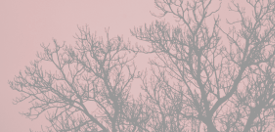
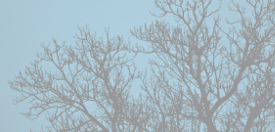
get into walmart

diff --git a/raw/End Millenium.html b/raw/End Millenium.html
@@ -73,6 +73,11 @@
     -webkit-animation: blink 1s steps(10, start) infinite;;
   } 
 
+  tw-icon {
+    opacity: .3;
+    color: #6EB7D4;
+  }
+
   tw-passage:hover h1{
     color: #00FFFF;
     text-shadow: 5px 7px rgba(44, 78, 86, 0.63);
@@ -113,6 +118,12 @@
     background-size: cover, 100px 100px;
   }
 
+  .text-section.electricsky:hover{
+    background-image:url(images/electricsky.png), url(images/static.gif);
+    background-repeat: no-repeat, repeat;
+    background-size: cover, 100px 100px;
+  }
+
   .text-section.headlights:hover{
     background-image:url(images/headlights.png), url(images/static.gif);
     background-repeat: no-repeat, repeat;
@@ -120,13 +131,19 @@
   }
 
   .text-section.headlights-off:hover{
-    background-image:url(images/truckdash.png), url(images/static.gif);
+    background-image:url(images/vacantsuburb.png), url(images/static.gif);
     background-repeat: no-repeat, repeat;
     background-size: cover, 100px 100px;
   }
 
   .text-section.met-shep:hover{
     background-image:url(images/cellphone.png), url(images/static.gif);
+    background-repeat: no-repeat, repeat;
+    background-size: cover, 100px 100px;
+  }
+
+  .text-section.shepheadlamp:hover{
+    background-image:url(images/shepheadlamp.png), url(images/static.gif);
     background-repeat: no-repeat, repeat;
     background-size: cover, 100px 100px;
   }
@@ -148,11 +165,25 @@
     background-repeat: no-repeat, repeat;
     background-size: cover, 100px 100px;
   }
+  
+  .text-section.takeknife{
+    padding:70px 20px;
+  }
+
+  .text-section.takeknife:hover{
+    background-image:url(images/takeknife.png), url(images/static.gif);
+    background-repeat: no-repeat, repeat;
+    background-size: cover, 100px 100px;
+  }
 
   .text-section.twistedtrees:hover{
     background-image:url(images/twistedbranches.png), url(images/static.gif);
     background-repeat: no-repeat, repeat;
     background-size: cover, 100px 100px;
+  }
+
+  .text-section.walmart-question{
+    padding: 50px 20px;
   }
 
   .text-section.walmart-question:hover{
@@ -211,7 +242,9 @@
 
 
 
+
 </style><script role="script" id="twine-user-script" type="text/twine-javascript">
+
 
 
 
@@ -234,21 +267,20 @@ Angela passes an exit.
 (if: (passage:)&#x27;s tags&#x27;s length &gt; 0)[
 (print: &quot;&lt;script&gt;$(&#x27;html&#x27;).addClass(&#x27;&quot; + (passage:)&#x27;s tags.join(&#x27; &#x27;) + &quot;&#x27;\)&lt;/script&gt;&quot;)
 ]
-}</tw-passagedata><tw-passagedata pid="12" name="The highway" tags="earlyeve" position="540,514">&lt;div class=&quot;text-section bottom-line&quot;&gt;You dream of casino billboards as they come and go, and of exit signs. When you open your eyes, it’s much like the dream. The sky wheels above Mississippi. [[The land is electric|Staring out at Mississippi]].&lt;/div&gt;&lt;div class=&quot;text-section headlights&quot;&gt;A car passes like some homeward spaceship that lost a war. It’s going east. You&#x27;re going west. The low sun breaks apart in the sky.&lt;/div&gt;</tw-passagedata><tw-passagedata pid="13" name="Shep laughs on his haunches" tags="gasstation" position="409,1053">&lt;div class=&quot;text-section walmart-question&quot;&gt;Shep: “What I’m asking is, if I went and got a couple things from Wal-Mart, would you two [[mind|Mind going to Wal-Mart?]]?”
+}</tw-passagedata><tw-passagedata pid="12" name="The highway" tags="earlyeve" position="540,514">&lt;div class=&quot;text-section bottom-line electricsky&quot;&gt;You dream of casino billboards as they come and go, and of exit signs. When you open your eyes, it’s much like the dream. The sky wheels above Mississippi. [[The land is electric|Staring out at Mississippi]].&lt;/div&gt;&lt;div class=&quot;text-section headlights&quot;&gt;A car passes like some homeward spaceship that lost a war. It’s going east. You&#x27;re going west. The low sun breaks apart in the sky.&lt;/div&gt;</tw-passagedata><tw-passagedata pid="13" name="Shep laughs on his haunches" tags="gasstation" position="409,1053">&lt;div class=&quot;text-section walmart-question&quot;&gt;Shep: “What I’m asking is, if I went and got a couple things from Wal-Mart, would you two [[mind|Mind going to Wal-Mart?]]?”
 &lt;/div&gt;</tw-passagedata><tw-passagedata pid="14" name="Mind going to Wal-Mart?" tags="gasstation" position="413,1178">&lt;div class=&quot;text-section choice&quot;&gt;&gt; [[&quot;Nah, let&#x27;s go.&quot;|Let&#x27;s go to Wal-Mart]]
 &gt; [[&quot;We&#x27;d have to break in...&quot;|We&#x27;d have to break in to Wal-Mart]]
-&gt; [[&quot;Yeah, we&#x27;d mind.&quot;|We&#x27;d mind going to Wal-Mart]]&lt;/div&gt;</tw-passagedata><tw-passagedata pid="15" name="Let&#x27;s go to Wal-Mart" tags="gasstation" position="289,1332">&lt;div class=&quot;text-section&quot;&gt;Angela smiles, and the three of you [[climb into the truck|Get in the truck for Wal-Mart]].&lt;/div&gt;</tw-passagedata><tw-passagedata pid="16" name="We&#x27;d have to break in to Wal-Mart" tags="gasstation" position="421,1337">&lt;div class=&quot;text-section bottom-line&quot;&gt;Shep shakes his head. &quot;You aint gotta do shit. Wait in the truck for all I care.&quot;&lt;/div&gt;&lt;div class=&quot;text-section&quot;&gt;Angela laughs. Silence follows, and the three of you [[climb into the truck|Get in the truck for Wal-Mart]].&lt;/div&gt;</tw-passagedata><tw-passagedata pid="17" name="We&#x27;d mind going to Wal-Mart" tags="gasstation" position="563,1338">&lt;div class=&quot;text-section&quot;&gt;Shep grimaces for a moment. Then he smiles. &quot;Well then you get to wait outside. Let&#x27;s get moving.&quot; Without another word exchanged, the three of you [[climb into the truck|Get in the truck for Wal-Mart]].&lt;/div&gt;</tw-passagedata><tw-passagedata pid="18" name="Get in the truck for Wal-Mart" tags="highwaynight" position="419,1473">&lt;div class=&quot;text-section bottom-line&quot;&gt;You sit in the narrow backseat for forty miles before Shep exits the highway into a [[wholly vacant suburb|Vacant suburb]].&lt;/div&gt;&lt;div class=&quot;text-section radio&quot;&gt;The emergency service station plays on the radio. The man at the microphone speaks extemporaneously about things he&#x27;s heard, what&#x27;s flooded and what&#x27;s not. None of it sounds good.&lt;/div&gt;</tw-passagedata><tw-passagedata pid="19" name="Vacant suburb" tags="highwaynight" position="419,1610">&lt;div class=&quot;text-section headlights-off&quot;&gt;Shep seems to know just where he&#x27;s going. He travels north for several minutes through a lane of low-rise stucco malls. In one parking lot are many military vehicles but nowhere are there people. Debris covers much of the road. He makes a left, cuts the headlights and drives along slowly by little suggestions of the moon. He circles to the back of the Wal-Mart and parks his truck in the [[driveway|Complex driveway]] of a small residential complex across the street.&lt;/div&gt;</tw-passagedata><tw-passagedata pid="20" name="Complex driveway" tags="moonlight" position="595,1610">&lt;div class=&quot;text-section bottom-line&quot;&gt;As your eyes adjust to the dim moonlight, Shep gets out and begins filling the tank with a gas canister from the truck bed. Without looking up, he asks that you and Angela move his tools from his job box into the cab of the truck.&lt;/div&gt;
-&lt;div class=&quot;text-section choice&quot;&gt;&gt;[[You ask why|Why move tools]].
-&gt;[[You do as he says|Move tools]].&lt;/div&gt;</tw-passagedata><tw-passagedata pid="21" name="Why move tools" tags="moonlight" position="517,1755">&lt;div class=&quot;text-section&quot;&gt;&quot;Cus that shit&#x27;s expensive,&quot; he replies. You nod and begin [[moving the tools|Move tools]].&lt;/div&gt;</tw-passagedata><tw-passagedata pid="22" name="Move tools" tags="moonlight" position="660,1756">&lt;div class=&quot;text-section&quot;&gt;Yall move a drill, a screw gun, a table saw, a drop cloth, a [[tool bag|Shep&#x27;s toolbag]], and two little plastic yellow cases. On the floor behind the driver&#x27;s seat, you notice a small [[pocket knife|Take the knife?]]. Once finished, you both [[look to Shep|Shep gets satchel]].&lt;/div&gt;</tw-passagedata><tw-passagedata pid="23" name="Shep gets satchel" tags="moonlight" position="659,2011">&lt;div class=&quot;text-section&quot;&gt;Shep carries over a satchel and begins filling it with various tools from the back seat.(if: $knife is true)[ He looks up at you for a brief moment with a chilling expression.] &quot;I&#x27;ma make my way in there. Follow along [[if yall want|Choose where to go]]. Don&#x27;t matter to me.&quot;&lt;/div&gt;</tw-passagedata><tw-passagedata pid="24" name="Shep&#x27;s toolbag" tags="" position="805,1761">&lt;div class=&quot;text-section&quot;&gt;The toolbag is greasy, smells vaguely like trash, and leaves you with the horrid sense that something mammalian is hiding inside it. You set it down quickly and [[return to the truckbed|Move tools]].&lt;/div&gt;</tw-passagedata><tw-passagedata pid="25" name="Take the knife?" tags="moonlight" position="515,1880">&lt;div class=&quot;text-section choice&quot;&gt;&gt;[[Take the knife|Take knife]].
-&gt;[[Leave the knife where it&#x27;s sitting.|Move tools]]&lt;/div&gt;</tw-passagedata><tw-passagedata pid="26" name="Take knife" tags="moonlight" position="513,2009">&lt;div class=&quot;text-section&quot;&gt;You glance over your shoulder towards Shep, who&#x27;s busy with something behind the truck, and then slip the knife into your back pocket. Angela watches the gesture and says nothing.(set: $knife to true) Shep wanders to the front of the truck and the two of you [[turn to face him|Shep gets satchel]].&lt;/div&gt;</tw-passagedata><tw-passagedata pid="27" name="Wait with Angela" tags="moonlight" position="722,1886">&lt;div class=&quot;text-section bottom-line&quot;&gt;Shep knods and retreats towards the back of the store.&lt;/div&gt;&lt;div class=&quot;text-section choice&quot;&gt;To Angela:
+&gt; [[&quot;Yeah, we&#x27;d mind.&quot;|We&#x27;d mind going to Wal-Mart]]&lt;/div&gt;</tw-passagedata><tw-passagedata pid="15" name="Let&#x27;s go to Wal-Mart" tags="gasstation" position="289,1332">&lt;div class=&quot;text-section&quot;&gt;Angela smiles, and the three of you [[climb into the truck|Get in the truck for Wal-Mart]].&lt;/div&gt;</tw-passagedata><tw-passagedata pid="16" name="We&#x27;d have to break in to Wal-Mart" tags="gasstation" position="421,1337">&lt;div class=&quot;text-section bottom-line&quot;&gt;Shep shakes his head. &quot;You aint gotta do shit. Wait in the truck for all I care.&quot;&lt;/div&gt;&lt;div class=&quot;text-section&quot;&gt;Angela laughs. Silence follows, and the three of you [[climb into the truck|Get in the truck for Wal-Mart]].&lt;/div&gt;</tw-passagedata><tw-passagedata pid="17" name="We&#x27;d mind going to Wal-Mart" tags="gasstation" position="563,1338">&lt;div class=&quot;text-section&quot;&gt;Shep grimaces for a moment. Then he smiles. &quot;Well then you get to wait outside. Let&#x27;s get moving.&quot; Without another word exchanged, the three of you [[climb into the truck|Get in the truck for Wal-Mart]].&lt;/div&gt;</tw-passagedata><tw-passagedata pid="18" name="Get in the truck for Wal-Mart" tags="highwaynight" position="419,1473">&lt;div class=&quot;text-section bottom-line&quot;&gt;You sit in the narrow backseat for forty miles before Shep exits the highway into a [[wholly vacant suburb|Vacant suburb]].&lt;/div&gt;&lt;div class=&quot;text-section radio&quot;&gt;The emergency service station plays on the radio. The man at the microphone speaks extemporaneously about things he&#x27;s heard, what&#x27;s flooded and what&#x27;s not. None of it sounds good.&lt;/div&gt;</tw-passagedata><tw-passagedata pid="19" name="Vacant suburb" tags="highwaynight" position="419,1610">&lt;div class=&quot;text-section headlights-off&quot;&gt;Shep seems to know just where he&#x27;s going. He travels north for several minutes through a lane of low-rise stucco malls. In one parking lot are many military vehicles but nowhere are there people. Debris covers much of the road. He makes a left, cuts the headlights and drives along slowly by little suggestions of the moon. He circles to the back of the Wal-Mart and parks his truck in the [[driveway|Complex driveway]] of a small residential complex across the street.&lt;/div&gt;</tw-passagedata><tw-passagedata pid="20" name="Complex driveway" tags="moonlight" position="595,1610">&lt;div class=&quot;text-section bottom-line&quot;&gt;As your eyes adjust to the dim moonlight, Shep gets out and begins filling the tank with a gas canister from the truck bed. Without looking up, he asks that you and Angela move his tools from his job box into the cab of the truck.&lt;/div&gt;&lt;div class=&quot;text-section choice&quot;&gt;&gt;[[You ask why|Why move tools]].
+&gt;[[You do as he says|Move tools]].&lt;/div&gt;</tw-passagedata><tw-passagedata pid="21" name="Why move tools" tags="moonlight" position="517,1755">&lt;div class=&quot;text-section&quot;&gt;&quot;Lock don&#x27;t work on the box,&quot; he replies. You nod and begin [[moving the tools|Move tools]].&lt;/div&gt;</tw-passagedata><tw-passagedata pid="22" name="Move tools" tags="moonlight" position="660,1756">&lt;div class=&quot;text-section&quot;&gt;Yall move a drill, a screw gun, a table saw, a drop cloth, a [[tool bag|Shep&#x27;s toolbag]], and two little plastic yellow cases. On the floor behind the driver&#x27;s seat, you notice a small [[pocket knife|Take the knife?]]. Once finished, you both [[look to Shep|Shep gets satchel]].&lt;/div&gt;</tw-passagedata><tw-passagedata pid="23" name="Shep gets satchel" tags="moonlight" position="659,2011">&lt;div class=&quot;text-section&quot;&gt;Shep carries over a satchel and begins filling it with various tools from the back seat.(if: $knife is true)[ He looks up at you for a brief moment with a chilling expression.] &quot;I&#x27;ma make my way in there. Follow along [[if yall want|Wait with Angela]]. Don&#x27;t matter to me.&quot;&lt;/div&gt;</tw-passagedata><tw-passagedata pid="24" name="Shep&#x27;s toolbag" tags="" position="805,1761">&lt;div class=&quot;text-section&quot;&gt;The toolbag is greasy, smells vaguely like trash, and leaves you with the horrid sense that something mammalian is hiding inside it. You set it down quickly and [[return to the truckbed|Move tools]].&lt;/div&gt;</tw-passagedata><tw-passagedata pid="25" name="Take the knife?" tags="moonlight" position="515,1880">&lt;div class=&quot;text-section choice&quot;&gt;&gt;[[Take the knife|Take knife]].
+&gt;[[Leave the knife where it&#x27;s sitting.|Move tools]]&lt;/div&gt;</tw-passagedata><tw-passagedata pid="26" name="Take knife" tags="moonlight" position="513,2009">&lt;div class=&quot;text-section takeknife&quot;&gt;You glance over your shoulder towards Shep, who&#x27;s busy with something behind the truck. You check the blade on the knife, and then slip it into your back pocket. Angela watches the gesture and says nothing.(set: $knife to true) Shep wanders to the front of the truck and the two of you [[turn to face him|Shep gets satchel]].&lt;/div&gt;</tw-passagedata><tw-passagedata pid="27" name="Wait with Angela" tags="moonlight" position="539,2146">&lt;div class=&quot;text-section bottom-line&quot;&gt;Shep knods and retreats towards the back of the store.&lt;/div&gt;&lt;div class=&quot;text-section choice&quot;&gt;To Angela:
 &gt; (link: &quot;How do you feel about this guy?&quot;)[(set: $likeShep to &quot;unsure&quot;)(goto: &quot;How does Angela feel about Shep&quot;)]
 &gt; (link: &quot;I like this guy.&quot;)[(set: $likeShep to &quot;like&quot;)(goto: &quot;How does Angela feel about Shep&quot;)]
-&gt; (link: &quot;I don&#x27;t trust this guy...&quot;)[(set: $likeShep to &quot;dislike&quot;)(goto: &quot;How does Angela feel about Shep&quot;)]</tw-passagedata><tw-passagedata pid="28" name="How does Angela feel about Shep" tags="moonlight" position="664,2145">&lt;div class=&quot;text-section&quot;&gt;&quot;(if: $likeShep is &quot;dislike&quot;)[Well ]I like him(if: $likeShep is &quot;like&quot;)[ too].(if: $knife is true)[ Though he may not like us too much if he sees that his knife is missing.] I&#x27;m down to wait out here or head in and get some stuff. It&#x27;s [[up to you|Choose where to go]].&quot;&lt;/div&gt;</tw-passagedata><tw-passagedata pid="29" name="Choose where to go" tags="moonlight" position="847.0002,1966">&lt;div class=&quot;text-section choice&quot;&gt;&gt; [[Head toward the back of the store.|Behind Wal-mart]]
-&gt; [[Continue waiting.|Continue waiting with Angela]]&lt;/div&gt;</tw-passagedata><tw-passagedata pid="30" name="Behind Wal-mart" tags="moonlight" position="832,2157">&lt;div class=&quot;text-section bottom-line&quot;&gt;You can make out Shep&#x27;s headlamp as you walk towards Wal-Mart. As you get closer, you see that he&#x27;s removing screws from a 2x4 that hangs above a large piece of plywood. Angela hurries ahead of you and helps him bring down the plywood. By the time you arrive, they&#x27;re removing the stops from a large metal door frame.&lt;/div&gt;&lt;div class=&quot;text-section choice&quot;&gt;&gt; [[&quot;How can I help?&quot;|Help get into Wal-mart]]
+&gt; (link: &quot;I don&#x27;t trust this guy...&quot;)[(set: $likeShep to &quot;dislike&quot;)(goto: &quot;How does Angela feel about Shep&quot;)]</tw-passagedata><tw-passagedata pid="28" name="How does Angela feel about Shep" tags="moonlight" position="664.0001,2145">&lt;div class=&quot;text-section&quot;&gt;&quot;(if: $likeShep is &quot;dislike&quot;)[Well ]I like him(if: $likeShep is &quot;like&quot;)[ too].(if: $knife is true)[ Though he may not like us too much if he sees that his knife is missing.] I&#x27;m down to wait out here or head in and get some stuff. It&#x27;s [[up to you|Choose where to go]].&quot;&lt;/div&gt;</tw-passagedata><tw-passagedata pid="29" name="Choose where to go" tags="moonlight" position="847,1966">&lt;div class=&quot;text-section choice&quot;&gt;&gt; [[Head toward the back of the store.|Behind Wal-mart]]
+&gt; [[Continue waiting.|Continue waiting with Angela]]&lt;/div&gt;</tw-passagedata><tw-passagedata pid="30" name="Behind Wal-mart" tags="moonlight" position="832,2157">&lt;div class=&quot;text-section bottom-line shepheadlamp&quot;&gt;You can make out Shep&#x27;s headlamp as you walk towards Wal-Mart. As you get closer, you see that he&#x27;s removing screws from a 2x4 that hangs above a large piece of plywood. Angela hurries ahead of you and helps him bring down the plywood. By the time you arrive, they&#x27;re removing the stops from a metal door frame.&lt;/div&gt;&lt;div class=&quot;text-section choice&quot;&gt;&gt; [[&quot;How can I help?&quot;|Help get into Wal-mart]]
 &gt; [[Continue to watch|Get into Wal-Mart]].&lt;/div&gt;</tw-passagedata><tw-passagedata pid="31" name="Continue waiting with Angela" tags="moonlight" position="996,1961">&lt;div class=&quot;text-section bottom-line&quot;&gt;You&#x27;ve never seen this many stars along the Gulf Coast before. You watch what you believe to be a satellite traveling in an arc above the shadowed suburb.&lt;/div&gt;&lt;div class=&quot;text-section choice&quot;&gt;To Angela:
 &gt; [[When do you think we&#x27;ll get to Norco?|When will we get to Norco]]
 &gt; [[I&#x27;m getting tired.|Getting tired.]]
-&gt; [[I hope the lights never come back on.|Hope the lights never come back on.]]&lt;/div&gt;</tw-passagedata><tw-passagedata pid="32" name="When will we get to Norco" tags="moonlight" position="987,2160">&lt;div class=&quot;text-section&quot;&gt;&quot;Maybe there&#x27;s no more Norco. Maybe never?&quot; You nod and [[lean against the truck|Choose where to go]].&lt;/div&gt;</tw-passagedata><tw-passagedata pid="33" name="Getting tired." tags="moonlight" position="1128,2036">&lt;div class=&quot;text-section&quot;&gt;&quot;And it&#x27;s your turn to drive. Sucks for you.&quot; You roll your eyes and [[lean against the truck|Choose where to go]].&lt;/div&gt;</tw-passagedata><tw-passagedata pid="34" name="Hope the lights never come back on." tags="moonlight" position="995,1816">&lt;div class=&quot;text-section&quot;&gt;&quot;I&#x27;ll remember you said that when we get home and there&#x27;s no air conditioning.&quot; You bite your tongue and [[lean against the truck|Choose where to go]].&lt;/div&gt;</tw-passagedata><tw-passagedata pid="35" name="Help get into Wal-mart" tags="moonlight" position="832,2307">&lt;div class=&quot;text-section&quot;&gt;Shep gestures to a vaccuum cup sitting on the ground near your feet. &quot;[[Hand me that cup|Get into Wal-Mart]](if: $knife is not true)[, if you would].&quot;&lt;/div&gt;</tw-passagedata><tw-passagedata pid="36" name="Get into Wal-Mart" tags="moonlight" position="982,2307">&lt;div class=&quot;text-section&quot; id=&quot;end-demo&quot;&gt;End demo.&lt;/div&gt;</tw-passagedata></tw-storydata>
+&gt; [[I hope the lights never come back on.|Hope the lights never come back on.]]&lt;/div&gt;</tw-passagedata><tw-passagedata pid="32" name="When will we get to Norco" tags="moonlight" position="987,2160">&lt;div class=&quot;text-section&quot;&gt;&quot;Maybe there&#x27;s no more Norco. Maybe never?&quot; You nod and [[lean against the truck|Choose where to go]].&lt;/div&gt;</tw-passagedata><tw-passagedata pid="33" name="Getting tired." tags="moonlight" position="1128,2036">&lt;div class=&quot;text-section&quot;&gt;&quot;And it&#x27;s your turn to drive. Sucks for you.&quot; You roll your eyes and [[lean against the truck|Choose where to go]].&lt;/div&gt;</tw-passagedata><tw-passagedata pid="34" name="Hope the lights never come back on." tags="moonlight" position="995,1816">&lt;div class=&quot;text-section&quot;&gt;&quot;I&#x27;ll remember you said that when we get home and there&#x27;s no air conditioning.&quot; You bite your tongue and [[lean against the truck|Choose where to go]].&lt;/div&gt;</tw-passagedata><tw-passagedata pid="35" name="Help get into Wal-mart" tags="moonlight" position="832,2307">&lt;div class=&quot;text-section&quot;&gt;Shep gestures to a vaccuum cup sitting on the ground near your feet. &quot;[[Hand me that cup|Get into Wal-Mart]](if: $knife is not true)[, if you would].&quot;&lt;/div&gt;</tw-passagedata><tw-passagedata pid="36" name="Get into Wal-Mart" tags="moonlight" position="982,2307">&lt;div class=&quot;text-section&quot;&gt;Shep pumps the cup against the glass of the door frame, slides it slightly left, and lifts the glass entirely from the door. Angela helps to lean it against the wall. Shep takes a small LED flashlight from his back pocket, twists it on, and hands it to(if: $knife is true)[ Angela. She takes it with a grateful nod.](if: $knife is false)[ you. You accept it with a grateful nod.] &quot;Well,&quot; says Shep, &quot;[[let&#x27;s get to it|Enter Wal-Mart]].&quot;</tw-passagedata><tw-passagedata pid="37" name="Enter Wal-Mart" tags="walmart" position="982,2457">&lt;div class=&quot;text-section&quot; id=&quot;end&quot;&gt;You&#x27;ve reached the end of this demo.&lt;/div&gt;</tw-passagedata></tw-storydata>
 
 <script title="Twine engine code" data-main="harlowe">/**
  * @license almond 0.3.0 Copyright (c) 2011-2014, The Dojo Foundation All Rights Reserved.

diff --git a/index.html b/index.html
@@ -128,6 +128,12 @@
     background-size: cover, 100px 100px;
   }
 
+  .text-section.electricsky:hover{
+    background-image:url(images/electricsky.png), url(images/static.gif);
+    background-repeat: no-repeat, repeat;
+    background-size: cover, 100px 100px;
+  }
+
   .text-section.headlights:hover{
     background-image:url(images/headlights.png), url(images/static.gif);
     background-repeat: no-repeat, repeat;
@@ -135,13 +141,19 @@
   }
 
   .text-section.headlights-off:hover{
-    background-image:url(images/truckdash.png), url(images/static.gif);
+    background-image:url(images/vacantsuburb.png), url(images/static.gif);
     background-repeat: no-repeat, repeat;
     background-size: cover, 100px 100px;
   }
 
   .text-section.met-shep:hover{
     background-image:url(images/cellphone.png), url(images/static.gif);
+    background-repeat: no-repeat, repeat;
+    background-size: cover, 100px 100px;
+  }
+
+  .text-section.shepheadlamp:hover{
+    background-image:url(images/shepheadlamp.png), url(images/static.gif);
     background-repeat: no-repeat, repeat;
     background-size: cover, 100px 100px;
   }
@@ -163,11 +175,25 @@
     background-repeat: no-repeat, repeat;
     background-size: cover, 100px 100px;
   }
+  
+  .text-section.takeknife{
+    padding:70px 20px;
+  }
+
+  .text-section.takeknife:hover{
+    background-image:url(images/takeknife.png), url(images/static.gif);
+    background-repeat: no-repeat, repeat;
+    background-size: cover, 100px 100px;
+  }
 
   .text-section.twistedtrees:hover{
     background-image:url(images/twistedbranches.png), url(images/static.gif);
     background-repeat: no-repeat, repeat;
     background-size: cover, 100px 100px;
+  }
+
+  .text-section.walmart-question{
+    padding: 50px 20px;
   }
 
   .text-section.walmart-question:hover{
@@ -226,7 +252,9 @@
 
 
 
+
 </style><script role="script" id="twine-user-script" type="text/twine-javascript">
+
 
 
 
@@ -249,20 +277,20 @@ Angela passes an exit.
 (if: (passage:)&#x27;s tags&#x27;s length &gt; 0)[
 (print: &quot;&lt;script&gt;$(&#x27;html&#x27;).addClass(&#x27;&quot; + (passage:)&#x27;s tags.join(&#x27; &#x27;) + &quot;&#x27;\)&lt;/script&gt;&quot;)
 ]
-}</tw-passagedata><tw-passagedata pid="12" name="The highway" tags="earlyeve" position="540,514">&lt;div class=&quot;text-section bottom-line&quot;&gt;You dream of casino billboards as they come and go, and of exit signs. When you open your eyes, it’s much like the dream. The sky wheels above Mississippi. [[The land is electric|Staring out at Mississippi]].&lt;/div&gt;&lt;div class=&quot;text-section headlights&quot;&gt;A car passes like some homeward spaceship that lost a war. It’s going east. You&#x27;re going west. The low sun breaks apart in the sky.&lt;/div&gt;</tw-passagedata><tw-passagedata pid="13" name="Shep laughs on his haunches" tags="gasstation" position="409,1053">&lt;div class=&quot;text-section walmart-question&quot;&gt;Shep: “What I’m asking is, if I went and got a couple things from Wal-Mart, would you two [[mind|Mind going to Wal-Mart?]]?”
+}</tw-passagedata><tw-passagedata pid="12" name="The highway" tags="earlyeve" position="540,514">&lt;div class=&quot;text-section bottom-line electricsky&quot;&gt;You dream of casino billboards as they come and go, and of exit signs. When you open your eyes, it’s much like the dream. The sky wheels above Mississippi. [[The land is electric|Staring out at Mississippi]].&lt;/div&gt;&lt;div class=&quot;text-section headlights&quot;&gt;A car passes like some homeward spaceship that lost a war. It’s going east. You&#x27;re going west. The low sun breaks apart in the sky.&lt;/div&gt;</tw-passagedata><tw-passagedata pid="13" name="Shep laughs on his haunches" tags="gasstation" position="409,1053">&lt;div class=&quot;text-section walmart-question&quot;&gt;Shep: “What I’m asking is, if I went and got a couple things from Wal-Mart, would you two [[mind|Mind going to Wal-Mart?]]?”
 &lt;/div&gt;</tw-passagedata><tw-passagedata pid="14" name="Mind going to Wal-Mart?" tags="gasstation" position="413,1178">&lt;div class=&quot;text-section choice&quot;&gt;&gt; [[&quot;Nah, let&#x27;s go.&quot;|Let&#x27;s go to Wal-Mart]]
 &gt; [[&quot;We&#x27;d have to break in...&quot;|We&#x27;d have to break in to Wal-Mart]]
 &gt; [[&quot;Yeah, we&#x27;d mind.&quot;|We&#x27;d mind going to Wal-Mart]]&lt;/div&gt;</tw-passagedata><tw-passagedata pid="15" name="Let&#x27;s go to Wal-Mart" tags="gasstation" position="289,1332">&lt;div class=&quot;text-section&quot;&gt;Angela smiles, and the three of you [[climb into the truck|Get in the truck for Wal-Mart]].&lt;/div&gt;</tw-passagedata><tw-passagedata pid="16" name="We&#x27;d have to break in to Wal-Mart" tags="gasstation" position="421,1337">&lt;div class=&quot;text-section bottom-line&quot;&gt;Shep shakes his head. &quot;You aint gotta do shit. Wait in the truck for all I care.&quot;&lt;/div&gt;&lt;div class=&quot;text-section&quot;&gt;Angela laughs. Silence follows, and the three of you [[climb into the truck|Get in the truck for Wal-Mart]].&lt;/div&gt;</tw-passagedata><tw-passagedata pid="17" name="We&#x27;d mind going to Wal-Mart" tags="gasstation" position="563,1338">&lt;div class=&quot;text-section&quot;&gt;Shep grimaces for a moment. Then he smiles. &quot;Well then you get to wait outside. Let&#x27;s get moving.&quot; Without another word exchanged, the three of you [[climb into the truck|Get in the truck for Wal-Mart]].&lt;/div&gt;</tw-passagedata><tw-passagedata pid="18" name="Get in the truck for Wal-Mart" tags="highwaynight" position="419,1473">&lt;div class=&quot;text-section bottom-line&quot;&gt;You sit in the narrow backseat for forty miles before Shep exits the highway into a [[wholly vacant suburb|Vacant suburb]].&lt;/div&gt;&lt;div class=&quot;text-section radio&quot;&gt;The emergency service station plays on the radio. The man at the microphone speaks extemporaneously about things he&#x27;s heard, what&#x27;s flooded and what&#x27;s not. None of it sounds good.&lt;/div&gt;</tw-passagedata><tw-passagedata pid="19" name="Vacant suburb" tags="highwaynight" position="419,1610">&lt;div class=&quot;text-section headlights-off&quot;&gt;Shep seems to know just where he&#x27;s going. He travels north for several minutes through a lane of low-rise stucco malls. In one parking lot are many military vehicles but nowhere are there people. Debris covers much of the road. He makes a left, cuts the headlights and drives along slowly by little suggestions of the moon. He circles to the back of the Wal-Mart and parks his truck in the [[driveway|Complex driveway]] of a small residential complex across the street.&lt;/div&gt;</tw-passagedata><tw-passagedata pid="20" name="Complex driveway" tags="moonlight" position="595,1610">&lt;div class=&quot;text-section bottom-line&quot;&gt;As your eyes adjust to the dim moonlight, Shep gets out and begins filling the tank with a gas canister from the truck bed. Without looking up, he asks that you and Angela move his tools from his job box into the cab of the truck.&lt;/div&gt;&lt;div class=&quot;text-section choice&quot;&gt;&gt;[[You ask why|Why move tools]].
-&gt;[[You do as he says|Move tools]].&lt;/div&gt;</tw-passagedata><tw-passagedata pid="21" name="Why move tools" tags="moonlight" position="517,1755">&lt;div class=&quot;text-section&quot;&gt;&quot;Cus that shit&#x27;s expensive,&quot; he replies. You nod and begin [[moving the tools|Move tools]].&lt;/div&gt;</tw-passagedata><tw-passagedata pid="22" name="Move tools" tags="moonlight" position="660,1756">&lt;div class=&quot;text-section&quot;&gt;Yall move a drill, a screw gun, a table saw, a drop cloth, a [[tool bag|Shep&#x27;s toolbag]], and two little plastic yellow cases. On the floor behind the driver&#x27;s seat, you notice a small [[pocket knife|Take the knife?]]. Once finished, you both [[look to Shep|Shep gets satchel]].&lt;/div&gt;</tw-passagedata><tw-passagedata pid="23" name="Shep gets satchel" tags="moonlight" position="659,2011">&lt;div class=&quot;text-section&quot;&gt;Shep carries over a satchel and begins filling it with various tools from the back seat.(if: $knife is true)[ He looks up at you for a brief moment with a chilling expression.] &quot;I&#x27;ma make my way in there. Follow along [[if yall want|Choose where to go]]. Don&#x27;t matter to me.&quot;&lt;/div&gt;</tw-passagedata><tw-passagedata pid="24" name="Shep&#x27;s toolbag" tags="" position="805,1761">&lt;div class=&quot;text-section&quot;&gt;The toolbag is greasy, smells vaguely like trash, and leaves you with the horrid sense that something mammalian is hiding inside it. You set it down quickly and [[return to the truckbed|Move tools]].&lt;/div&gt;</tw-passagedata><tw-passagedata pid="25" name="Take the knife?" tags="moonlight" position="515,1880">&lt;div class=&quot;text-section choice&quot;&gt;&gt;[[Take the knife|Take knife]].
-&gt;[[Leave the knife where it&#x27;s sitting.|Move tools]]&lt;/div&gt;</tw-passagedata><tw-passagedata pid="26" name="Take knife" tags="moonlight" position="513,2009">&lt;div class=&quot;text-section&quot;&gt;You glance over your shoulder towards Shep, who&#x27;s busy with something behind the truck, and then slip the knife into your back pocket. Angela watches the gesture and says nothing.(set: $knife to true) Shep wanders to the front of the truck and the two of you [[turn to face him|Shep gets satchel]].&lt;/div&gt;</tw-passagedata><tw-passagedata pid="27" name="Wait with Angela" tags="moonlight" position="722,1886">&lt;div class=&quot;text-section bottom-line&quot;&gt;Shep knods and retreats towards the back of the store.&lt;/div&gt;&lt;div class=&quot;text-section choice&quot;&gt;To Angela:
+&gt;[[You do as he says|Move tools]].&lt;/div&gt;</tw-passagedata><tw-passagedata pid="21" name="Why move tools" tags="moonlight" position="517,1755">&lt;div class=&quot;text-section&quot;&gt;&quot;Lock don&#x27;t work on the box,&quot; he replies. You nod and begin [[moving the tools|Move tools]].&lt;/div&gt;</tw-passagedata><tw-passagedata pid="22" name="Move tools" tags="moonlight" position="660,1756">&lt;div class=&quot;text-section&quot;&gt;Yall move a drill, a screw gun, a table saw, a drop cloth, a [[tool bag|Shep&#x27;s toolbag]], and two little plastic yellow cases. On the floor behind the driver&#x27;s seat, you notice a small [[pocket knife|Take the knife?]]. Once finished, you both [[look to Shep|Shep gets satchel]].&lt;/div&gt;</tw-passagedata><tw-passagedata pid="23" name="Shep gets satchel" tags="moonlight" position="659,2011">&lt;div class=&quot;text-section&quot;&gt;Shep carries over a satchel and begins filling it with various tools from the back seat.(if: $knife is true)[ He looks up at you for a brief moment with a chilling expression.] &quot;I&#x27;ma make my way in there. Follow along [[if yall want|Wait with Angela]]. Don&#x27;t matter to me.&quot;&lt;/div&gt;</tw-passagedata><tw-passagedata pid="24" name="Shep&#x27;s toolbag" tags="" position="805,1761">&lt;div class=&quot;text-section&quot;&gt;The toolbag is greasy, smells vaguely like trash, and leaves you with the horrid sense that something mammalian is hiding inside it. You set it down quickly and [[return to the truckbed|Move tools]].&lt;/div&gt;</tw-passagedata><tw-passagedata pid="25" name="Take the knife?" tags="moonlight" position="515,1880">&lt;div class=&quot;text-section choice&quot;&gt;&gt;[[Take the knife|Take knife]].
+&gt;[[Leave the knife where it&#x27;s sitting.|Move tools]]&lt;/div&gt;</tw-passagedata><tw-passagedata pid="26" name="Take knife" tags="moonlight" position="513,2009">&lt;div class=&quot;text-section takeknife&quot;&gt;You glance over your shoulder towards Shep, who&#x27;s busy with something behind the truck. You check the blade on the knife, and then slip it into your back pocket. Angela watches the gesture and says nothing.(set: $knife to true) Shep wanders to the front of the truck and the two of you [[turn to face him|Shep gets satchel]].&lt;/div&gt;</tw-passagedata><tw-passagedata pid="27" name="Wait with Angela" tags="moonlight" position="539,2146">&lt;div class=&quot;text-section bottom-line&quot;&gt;Shep retreats towards the back of the store.&lt;/div&gt;&lt;div class=&quot;text-section choice&quot;&gt;To Angela:
 &gt; (link: &quot;How do you feel about this guy?&quot;)[(set: $likeShep to &quot;unsure&quot;)(goto: &quot;How does Angela feel about Shep&quot;)]
 &gt; (link: &quot;I like this guy.&quot;)[(set: $likeShep to &quot;like&quot;)(goto: &quot;How does Angela feel about Shep&quot;)]
-&gt; (link: &quot;I don&#x27;t trust this guy...&quot;)[(set: $likeShep to &quot;dislike&quot;)(goto: &quot;How does Angela feel about Shep&quot;)]</tw-passagedata><tw-passagedata pid="28" name="How does Angela feel about Shep" tags="moonlight" position="664,2145">&lt;div class=&quot;text-section&quot;&gt;&quot;(if: $likeShep is &quot;dislike&quot;)[Well ]I like him(if: $likeShep is &quot;like&quot;)[ too].(if: $knife is true)[ Though he may not like us too much if he sees that his knife is missing.] I&#x27;m down to wait out here or head in and get some stuff. It&#x27;s [[up to you|Choose where to go]].&quot;&lt;/div&gt;</tw-passagedata><tw-passagedata pid="29" name="Choose where to go" tags="moonlight" position="847.0002,1966">&lt;div class=&quot;text-section choice&quot;&gt;&gt; [[Head toward the back of the store.|Behind Wal-mart]]
-&gt; [[Continue waiting.|Continue waiting with Angela]]&lt;/div&gt;</tw-passagedata><tw-passagedata pid="30" name="Behind Wal-mart" tags="moonlight" position="832,2157">&lt;div class=&quot;text-section bottom-line&quot;&gt;You can make out Shep&#x27;s headlamp as you walk towards Wal-Mart. As you get closer, you see that he&#x27;s removing screws from a 2x4 that hangs above a large piece of plywood. Angela hurries ahead of you and helps him bring down the plywood. By the time you arrive, they&#x27;re removing the stops from a large metal door frame.&lt;/div&gt;&lt;div class=&quot;text-section choice&quot;&gt;&gt; [[&quot;How can I help?&quot;|Help get into Wal-mart]]
+&gt; (link: &quot;I don&#x27;t trust this guy...&quot;)[(set: $likeShep to &quot;dislike&quot;)(goto: &quot;How does Angela feel about Shep&quot;)]</tw-passagedata><tw-passagedata pid="28" name="How does Angela feel about Shep" tags="moonlight" position="664.0001,2145">&lt;div class=&quot;text-section&quot;&gt;&quot;(if: $likeShep is &quot;dislike&quot;)[Well ]I like him(if: $likeShep is &quot;like&quot;)[ too].(if: $knife is true)[ Though he may not like us too much if he sees that his knife is missing.] I&#x27;m down to wait out here or head in and get some stuff. It&#x27;s [[up to you|Choose where to go]].&quot;&lt;/div&gt;</tw-passagedata><tw-passagedata pid="29" name="Choose where to go" tags="moonlight" position="847,1966">&lt;div class=&quot;text-section choice&quot;&gt;&gt; [[Head toward the back of the store.|Behind Wal-mart]]
+&gt; [[Continue waiting.|Continue waiting with Angela]]&lt;/div&gt;</tw-passagedata><tw-passagedata pid="30" name="Behind Wal-mart" tags="moonlight" position="832,2157">&lt;div class=&quot;text-section bottom-line shepheadlamp&quot;&gt;You can make out Shep&#x27;s headlamp as you walk towards Wal-Mart. As you get closer, you see that he&#x27;s removing screws from a 2x4 that hangs above a large piece of plywood. Angela hurries ahead of you and helps him bring down the plywood. By the time you arrive, they&#x27;re removing the stops from a metal door frame.&lt;/div&gt;&lt;div class=&quot;text-section choice&quot;&gt;&gt; [[&quot;How can I help?&quot;|Help get into Wal-mart]]
 &gt; [[Continue to watch|Get into Wal-Mart]].&lt;/div&gt;</tw-passagedata><tw-passagedata pid="31" name="Continue waiting with Angela" tags="moonlight" position="996,1961">&lt;div class=&quot;text-section bottom-line&quot;&gt;You&#x27;ve never seen this many stars along the Gulf Coast before. You watch what you believe to be a satellite traveling in an arc above the shadowed suburb.&lt;/div&gt;&lt;div class=&quot;text-section choice&quot;&gt;To Angela:
 &gt; [[When do you think we&#x27;ll get to Norco?|When will we get to Norco]]
 &gt; [[I&#x27;m getting tired.|Getting tired.]]
-&gt; [[I hope the lights never come back on.|Hope the lights never come back on.]]&lt;/div&gt;</tw-passagedata><tw-passagedata pid="32" name="When will we get to Norco" tags="moonlight" position="987,2160">&lt;div class=&quot;text-section&quot;&gt;&quot;Maybe there&#x27;s no more Norco. Maybe never?&quot; You nod and [[lean against the truck|Choose where to go]].&lt;/div&gt;</tw-passagedata><tw-passagedata pid="33" name="Getting tired." tags="moonlight" position="1128,2036">&lt;div class=&quot;text-section&quot;&gt;&quot;And it&#x27;s your turn to drive. Sucks for you.&quot; You roll your eyes and [[lean against the truck|Choose where to go]].&lt;/div&gt;</tw-passagedata><tw-passagedata pid="34" name="Hope the lights never come back on." tags="moonlight" position="995,1816">&lt;div class=&quot;text-section&quot;&gt;&quot;I&#x27;ll remember you said that when we get home and there&#x27;s no air conditioning.&quot; You bite your tongue and [[lean against the truck|Choose where to go]].&lt;/div&gt;</tw-passagedata><tw-passagedata pid="35" name="Help get into Wal-mart" tags="moonlight" position="832,2307">&lt;div class=&quot;text-section&quot;&gt;Shep gestures to a vaccuum cup sitting on the ground near your feet. &quot;[[Hand me that cup|Get into Wal-Mart]](if: $knife is not true)[, if you would].&quot;&lt;/div&gt;</tw-passagedata><tw-passagedata pid="36" name="Get into Wal-Mart" tags="moonlight" position="982,2307">&lt;div class=&quot;text-section&quot; id=&quot;end-demo&quot;&gt;End demo.&lt;/div&gt;</tw-passagedata></tw-storydata>
+&gt; [[I hope the lights never come back on.|Hope the lights never come back on.]]&lt;/div&gt;</tw-passagedata><tw-passagedata pid="32" name="When will we get to Norco" tags="moonlight" position="987,2160">&lt;div class=&quot;text-section&quot;&gt;&quot;Maybe there&#x27;s no more Norco. Maybe never?&quot; You nod and [[lean against the truck|Choose where to go]].&lt;/div&gt;</tw-passagedata><tw-passagedata pid="33" name="Getting tired." tags="moonlight" position="1128,2036">&lt;div class=&quot;text-section&quot;&gt;&quot;And it&#x27;s your turn to drive. Sucks for you.&quot; You roll your eyes and [[lean against the truck|Choose where to go]].&lt;/div&gt;</tw-passagedata><tw-passagedata pid="34" name="Hope the lights never come back on." tags="moonlight" position="995,1816">&lt;div class=&quot;text-section&quot;&gt;&quot;I&#x27;ll remember you said that when we get home and there&#x27;s no air conditioning.&quot; You bite your tongue and [[lean against the truck|Choose where to go]].&lt;/div&gt;</tw-passagedata><tw-passagedata pid="35" name="Help get into Wal-mart" tags="moonlight" position="832,2307">&lt;div class=&quot;text-section&quot;&gt;Shep gestures to a vaccuum cup sitting on the ground near your feet. &quot;[[Hand me that cup|Get into Wal-Mart]](if: $knife is not true)[, if you would].&quot;&lt;/div&gt;</tw-passagedata><tw-passagedata pid="36" name="Get into Wal-Mart" tags="moonlight" position="982,2307">&lt;div class=&quot;text-section&quot;&gt;Shep pumps the cup against the glass of the door frame, slides it slightly left, and lifts the glass entirely from the door. Angela helps to lean it against the wall. Shep takes a small LED flashlight from his back pocket, twists it on, and hands it to(if: $knife is true)[ Angela. She takes it with a grateful nod.](if: $knife is false)[ you. You accept it with a grateful nod.] &quot;Well,&quot; says Shep, &quot;[[let&#x27;s get to it|Enter Wal-Mart]].&quot;</tw-passagedata><tw-passagedata pid="37" name="Enter Wal-Mart" tags="walmart" position="982,2457">&lt;div class=&quot;text-section&quot; id=&quot;end&quot;&gt;You&#x27;ve reached the end of this demo.&lt;/div&gt;</tw-passagedata></tw-storydata>
 
 
 <script title="Twine engine code" data-main="harlowe">/**
